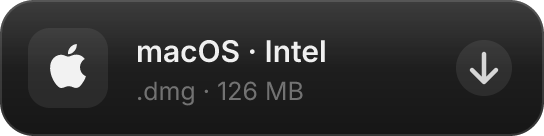
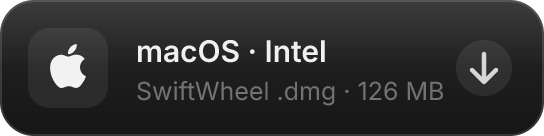
release-assets: v0.2.17-dock centrado no SwiftWheel, sem 'Como testar'

Changed region(s): [[0.25, 0.5882, 0.8125, 0.7941]]

diff --git a/.github/release-assets/_gerador/gen.py b/.github/release-assets/_gerador/gen.py
@@ -109,7 +109,7 @@ def banner():
 
   {logo(72, 72, 88)}
   <text x="72" y="236" font-family="{FONT_D}" font-size="68" font-weight="600" letter-spacing="-2" fill="{T1}">SwiftWheel<tspan dx="16" fill="{T3}" font-weight="500">0.2.17</tspan></text>
-  <text x="74" y="278" font-family="{FONT_UI}" font-size="21" fill="{T2}">Uma Dock no lugar da barra do Windows.</text>
+  <text x="74" y="278" font-family="{FONT_UI}" font-size="21" fill="{T2}">O SwiftWheel agora tem uma Dock própria no Windows.</text>
   <g>
     <rect x="72" y="310" width="168" height="38" rx="19" fill="#fff"/>
     <text x="156" y="335" text-anchor="middle" font-family="{FONT_UI}" font-size="15" font-weight="650" fill="#0a0a0b">Módulo Dock</text>
@@ -136,8 +136,8 @@ def btn_primary():
   <rect x=".5" y=".5" width="{W-1}" height="{H-1}" rx="19.5" fill="none" stroke="#000" stroke-opacity=".08"/>
   <rect x="18" y="18" width="48" height="48" rx="13" fill="#0a0a0b"/>
   {win_glyph(30, 30, 24, "#fff")}
-  <text x="84" y="39" font-family="{FONT_D}" font-size="22" font-weight="600" letter-spacing="-.4" fill="#0a0a0b">Baixar para Windows</text>
-  <text x="84" y="61" font-family="{FONT_UI}" font-size="14" fill="rgba(0,0,0,.55)">Instalador .exe · 96 MB · com o módulo Dock</text>
+  <text x="84" y="39" font-family="{FONT_D}" font-size="22" font-weight="600" letter-spacing="-.4" fill="#0a0a0b">Baixar SwiftWheel para Windows</text>
+  <text x="84" y="61" font-family="{FONT_UI}" font-size="14" fill="rgba(0,0,0,.55)">Instalador .exe · 96 MB · inclui o módulo Dock</text>
   {arrow(W-42, H/2, 20, "#0a0a0b", "#fff")}
 </svg>'''
 
@@ -160,10 +160,10 @@ def buttons():
     lx = lambda: si_glyph(LINUX, 23, 22, 22, "#f2f2f2")
     return {
         "btn-windows": btn_primary(),
-        "btn-macos-arm64": btn_secondary(ap(), "macOS · Apple Silicon", ".dmg · 122 MB · M1 a M4", "a"),
-        "btn-macos-x64": btn_secondary(ap(), "macOS · Intel", ".dmg · 126 MB", "b"),
-        "btn-linux-appimage": btn_secondary(lx(), "Linux · AppImage", "Qualquer distro · 145 MB", "c"),
-        "btn-linux-deb": btn_secondary(lx(), "Linux · .deb", "Debian e Ubuntu · 92 MB", "d"),
+        "btn-macos-arm64": btn_secondary(ap(), "macOS · Apple Silicon", "SwiftWheel .dmg · 122 MB", "a"),
+        "btn-macos-x64": btn_secondary(ap(), "macOS · Intel", "SwiftWheel .dmg · 126 MB", "b"),
+        "btn-linux-appimage": btn_secondary(lx(), "Linux · AppImage", "SwiftWheel · 145 MB", "c"),
+        "btn-linux-deb": btn_secondary(lx(), "Linux · .deb", "SwiftWheel · 92 MB", "d"),
     }
 
 # ── Card de novidades ───────────────────────────────────────────────────
@@ -181,12 +181,12 @@ def ico(kind, x, y):
 
 def features():
     items = [
-        ("pill", "Pílula no tema VOR", "Glass escuro no lugar da", "barra de tarefas do Windows."),
+        ("pill", "Dock do SwiftWheel", "Pílula no tema VOR no lugar", "da barra de tarefas do Windows."),
         ("lift", "Ícones sobem 6 px", "Levantadinha no hover, com", "magnificação opcional."),
         ("fast", "Some em 150 ms", "Auto-hide rápido ao tirar", "o mouse, configurável."),
-        ("tray", "Mini bandeja", "Relógio, volume, rede, bateria", "e notificações na própria Dock."),
+        ("tray", "Mini bandeja", "Relógio, volume, rede, bateria e", "notificações dentro do SwiftWheel."),
         ("multi", "Multi-monitor", "Segue o ponteiro ou fica no", "principal. Embaixo ou nas laterais."),
-        ("safe", "Desliga sem susto", "A barra do Windows volta na", "hora, mesmo se o app travar."),
+        ("safe", "Desliga sem susto", "A barra do Windows volta na hora,", "mesmo se o SwiftWheel travar."),
     ]
     W, cols, cw, ch, g, top = 1120, 3, 352, 132, 16, 76
     H = top + 2*ch + g + 24
@@ -204,33 +204,12 @@ def features():
   <defs><linearGradient id="bg" x1="0" y1="0" x2="0" y2="1"><stop offset="0" stop-color="#1b1b1b"/><stop offset="1" stop-color="#121212"/></linearGradient></defs>
   <rect width="{W}" height="{H}" rx="22" fill="url(#bg)"/>
   <rect x=".5" y=".5" width="{W-1}" height="{H-1}" rx="21.5" fill="none" stroke="#fff" stroke-opacity=".10"/>
-  <text x="24" y="50" font-family="{FONT_UI}" font-size="12.5" font-weight="600" letter-spacing="1.4" fill="{T3}">NOVIDADE · MÓDULO DOCK</text>
+  <text x="24" y="50" font-family="{FONT_UI}" font-size="12.5" font-weight="600" letter-spacing="1.4" fill="{T3}">NOVIDADES DO SWIFTWHEEL 0.2.17 · MÓDULO DOCK</text>
   <text x="{W-24}" y="50" text-anchor="end" font-family="{FONT_UI}" font-size="13" fill="{T3}">Issue #53 · PR #57</text>
   {cards}
 </svg>'''
 
-def steps():
-    items = [("1", "Saia do Windhawk", "ou desative o taskbar-styler"),
-             ("2", "Instale o .exe", "botão Windows acima"),
-             ("3", "Definições → Dock", "e ligue o módulo")]
-    W, H = 1120, 112
-    cw = (W - 48 - 2*16) / 3
-    out = ""
-    for i, (n, t, s) in enumerate(items):
-        x = 24 + i*(cw+16)
-        out += f'''<rect x="{x}" y="20" width="{cw}" height="72" rx="16" fill="#fff" fill-opacity=".035"/>
-      <rect x="{x+.5}" y="20.5" width="{cw-1}" height="71" rx="15.5" fill="none" stroke="#fff" stroke-opacity=".08"/>
-      <circle cx="{x+40}" cy="56" r="17" fill="#fff"/>
-      <text x="{x+40}" y="62" text-anchor="middle" font-family="{FONT_D}" font-size="17" font-weight="700" fill="#0a0a0b">{n}</text>
-      <text x="{x+70}" y="52" font-family="{FONT_UI}" font-size="16" font-weight="600" fill="{T1}">{t}</text>
-      <text x="{x+70}" y="72" font-family="{FONT_UI}" font-size="13.5" fill="{T3}">{s}</text>'''
-    return f'''<svg xmlns="http://www.w3.org/2000/svg" width="{W}" height="{H}" viewBox="0 0 {W} {H}">
-  <rect width="{W}" height="{H}" rx="22" fill="#151515"/>
-  <rect x=".5" y=".5" width="{W-1}" height="{H-1}" rx="21.5" fill="none" stroke="#fff" stroke-opacity=".10"/>
-  {out}
-</svg>'''
-
-files = {"banner": banner(), "novidades": features(), "como-testar": steps(), **buttons()}
+files = {"banner": banner(), "novidades": features(), **buttons()}
 for name, svg in files.items():
     (OUT / f"{name}.svg").write_text(svg)
 print(" ".join(files))
